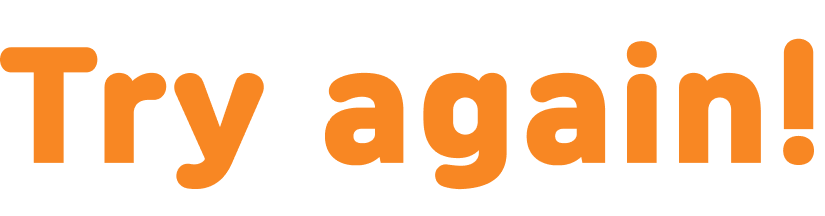
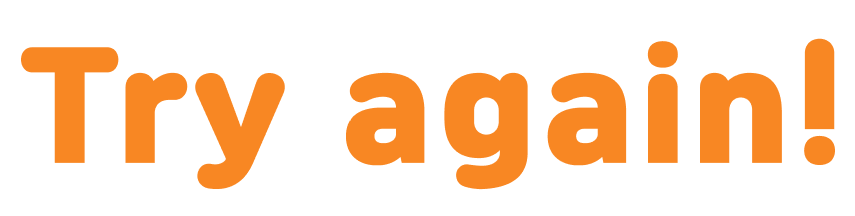
[Update] TryAgainText.js와 텍스트 이미지 수정.

diff --git a/components/recording/TryAgainText.js b/components/recording/TryAgainText.js
@@ -22,10 +22,10 @@ const styles = StyleSheet.create({
   tryAgain: {
     position: "absolute",
     top: `${Constants.TOP_OFFSET * 100}%`,
-    left: "37%"
+    left: "37.5%"
   },
   text: {
-    width: 206,
+    width: 214,
     height: 54
   }
 });
